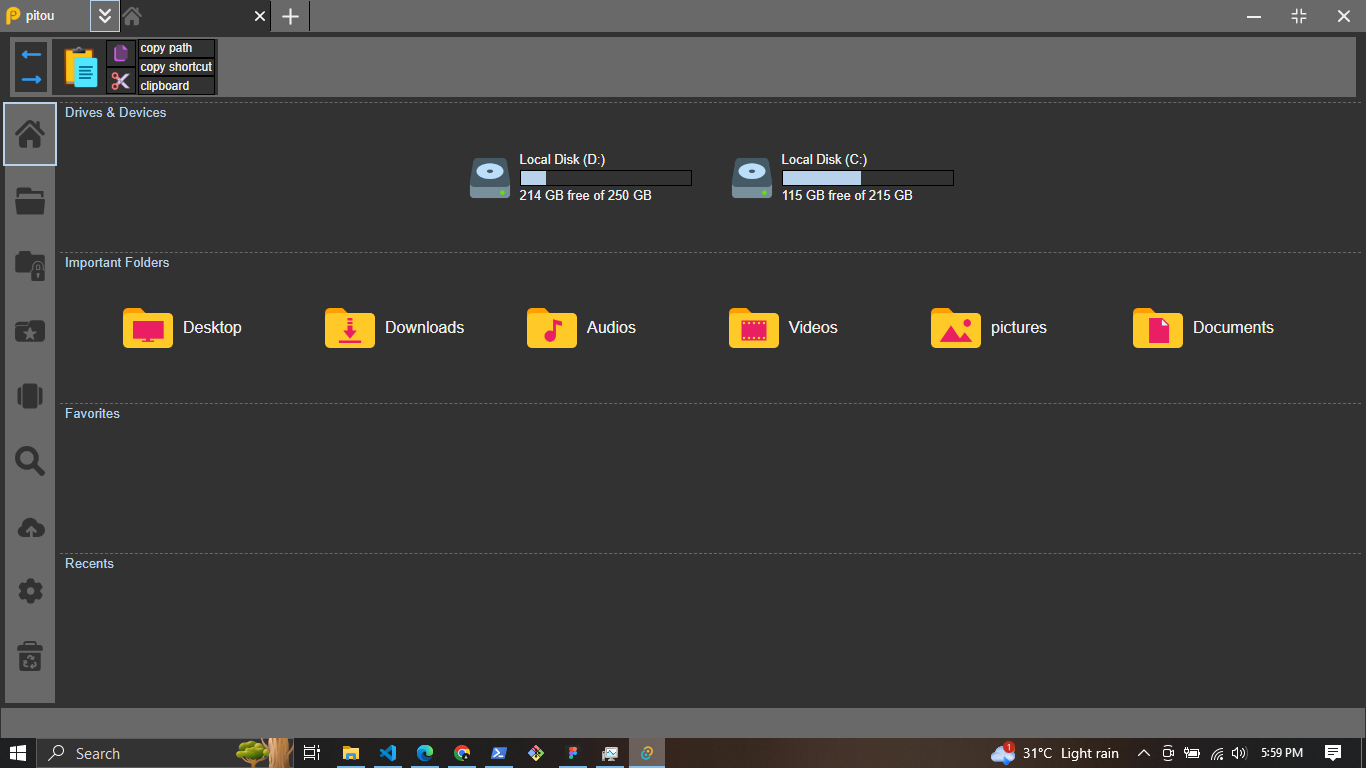
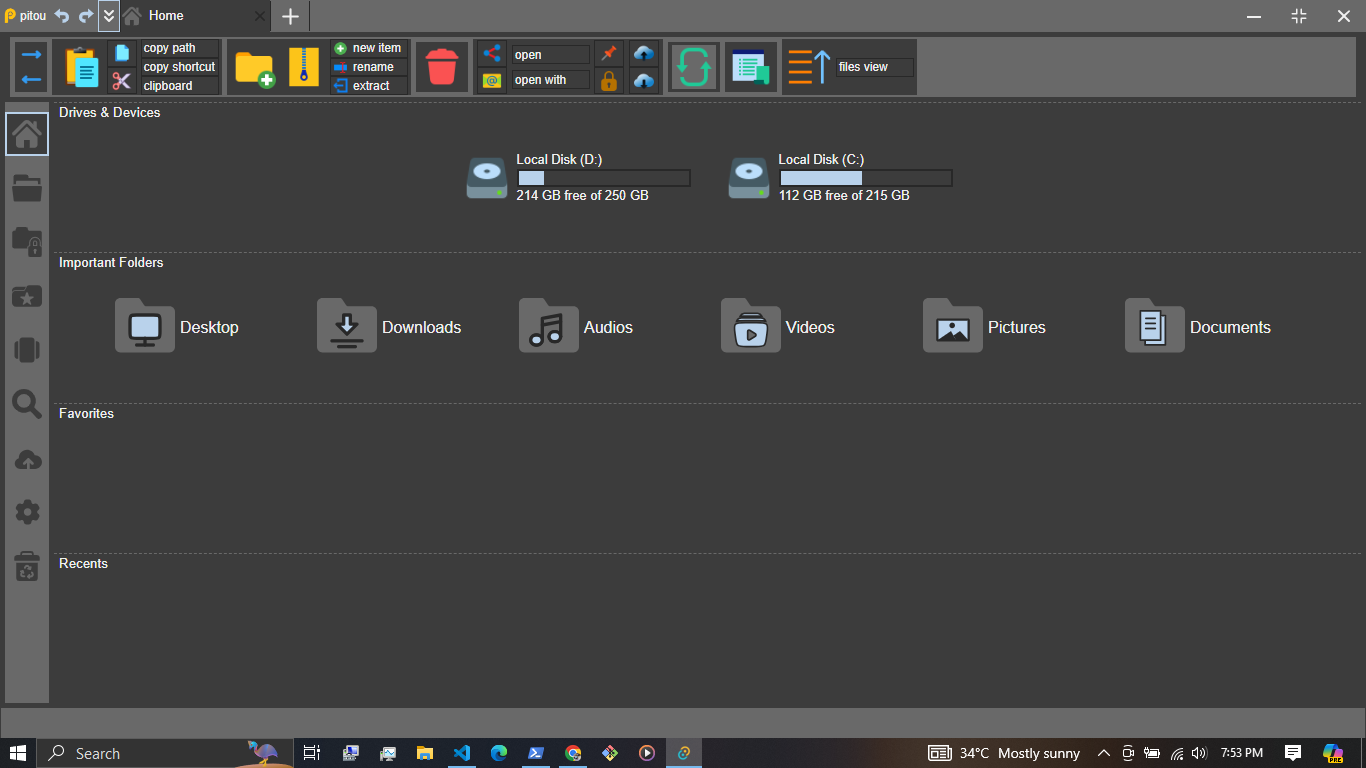
fixes

diff --git a/styles.css b/styles.css
@@ -118,7 +118,7 @@ body {
 }
 
 .ribbon-large.active:hover img {
-  border: 1px solid var(--secondary-spare-color); 
+  border: 2px solid var(--secondary-spare-color); 
 }
 
 .ribbon-large.active img {
@@ -1352,6 +1352,13 @@ body {
   align-items: center;
   justify-content: center;
   gap: 15px;
+}
+
+#new-item .new-item-member.prompt {
+  justify-content: left;
+  overflow: hidden;
+  text-wrap: nowrap;
+  text-overflow: ellipsis;
 }
 
 #new-item .new-item-member .new-item-member-btn {

diff --git a/src/app/content/ribbon/mod.rs b/src/app/content/ribbon/mod.rs
@@ -317,6 +317,19 @@ fn RibbonCreations(props: &RibbonCreationsProps) -> Html {
         }
     };
 
+    let onclickextract = {
+        let ctx = ctx.clone();
+        move |_| {
+            if ctx.current_menu() == AppMenu::Explorer {
+                if let Some(file) = ctx.static_data.openable_selection() {
+                    spawn_local(async move {
+                        crate::app::cmds::extract(file).await.ok();
+                    });
+                }
+            }
+        }
+    };
+
     let cnt1 = if let Some(state) = *new_item {
         if let Some(dir) = ctx.active_tab.current_dir() {
             let prompt = if state {
@@ -395,12 +408,13 @@ fn RibbonCreations(props: &RibbonCreationsProps) -> Html {
         html! {}
     };
 
-    let new_folder_class = format! {"ribbon-large {}", if matches!(*new_item, Some(v) if v) { "active" } else { "not-active" }};
+    let new_folder_class =
+        format! {"ribbon-large {}", if ctx.new_folder_able() { "active" } else { "not-active" }};
 
-    let archive_class = format!(
+    let archive_class = format! {
         "ribbon-large {}",
         if *can_archive { "active" } else { "inactive" }
-    );
+    };
 
     html! {
         <div id="ribbon-creations" class="ribbon-group">
@@ -421,7 +435,7 @@ fn RibbonCreations(props: &RibbonCreationsProps) -> Html {
                     <img src="./public/rename3.png"/>
                     {"rename"}
                 </div>
-                <div class="ribbon-small">
+                <div class="ribbon-small" onclick={onclickextract}>
                     <img src="./public/extract1.png"/>
                     {"extract"}
                 </div>

diff --git a/src/app/cmds.rs b/src/app/cmds.rs
@@ -1,7 +1,6 @@
 use std::rc::Rc;
 
 use pitou_core::*;
-use serde_wasm_bindgen::to_value;
 
 use super::reusables::{ItemsArg, NoArg, PitouArg, RenameArg};
 
@@ -39,6 +38,10 @@ pub async fn clipboard_empty() -> Result<bool, tauri_sys::Error> {
 
 pub async fn archive(items: &Vec<Rc<PitouFile>>) -> Result<(), tauri_sys::Error> {
     tauri_sys::tauri::invoke("archive", &ItemsArg { items }).await
+}
+
+pub async fn extract(pitou: Rc<PitouFile>) -> Result<(), tauri_sys::Error> {
+    tauri_sys::tauri::invoke("extract", &PitouArg { pitou }).await
 }
 
 pub async fn create_dir(pitou: Rc<PitouFile>) -> Result<(), tauri_sys::Error> {

diff --git a/src/app/reusables/panes.rs b/src/app/reusables/panes.rs
@@ -48,7 +48,7 @@ pub fn NewItemPane(props: &NewItemPaneProps) -> Html {
 
     html! {
         <div id="new-item">
-            <label class="new-item-member"> { &props.prompt } </label>
+            <label class="new-item-member prompt"> { &props.prompt } </label>
             <input placeholder={props.placeholder.clone()} class="new-item-member" type="text" {onkeypress} ref={input_ref} class="new-item-member"/>
             <div class="new-item-member">
                 <input type="checkbox"/>

diff --git a/src-tauri/src/cmds/mod.rs b/src-tauri/src/cmds/mod.rs
@@ -84,3 +84,8 @@ pub async fn create_file(pitou: PitouFile) {
 pub async fn rename(pitou: PitouFile, name: String) {
     pitou_core::backend::rename(pitou.path, name).await
 }
+
+#[tauri::command]
+pub async fn extract(pitou: PitouFile) {
+    let _ = pitou;
+}

diff --git a/src-tauri/src/main.rs b/src-tauri/src/main.rs
@@ -22,6 +22,7 @@ fn main() {
             create_dir,
             create_file,
             rename,
+            extract,
         ])
         .run(tauri::generate_context!())
         .expect("error while running tauri application");

diff --git a/README.md b/README.md
@@ -1,10 +1,14 @@
 # Tauri + Yew
 
-This template should help get you started developing with Tauri and Yew.
 
 ## Recommended IDE Setup
 
 [VS Code](https://code.visualstudio.com/) + [Tauri](https://marketplace.visualstudio.com/items?itemName=tauri-apps.tauri-vscode) + [rust-analyzer](https://marketplace.visualstudio.com/items?itemName=rust-lang.rust-analyzer).
+
+
+## Demo
+
+!["Polish Color Theme"](items/shot3.png)
 
 | Image 1 | Image 2 |
 |---|---|
